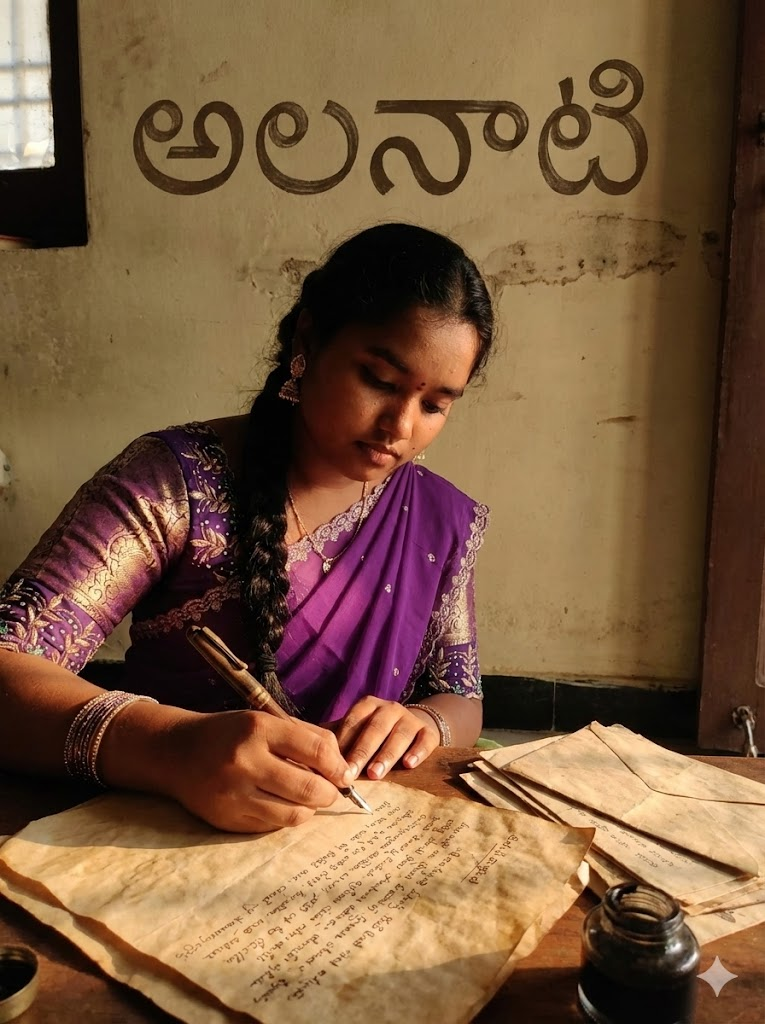
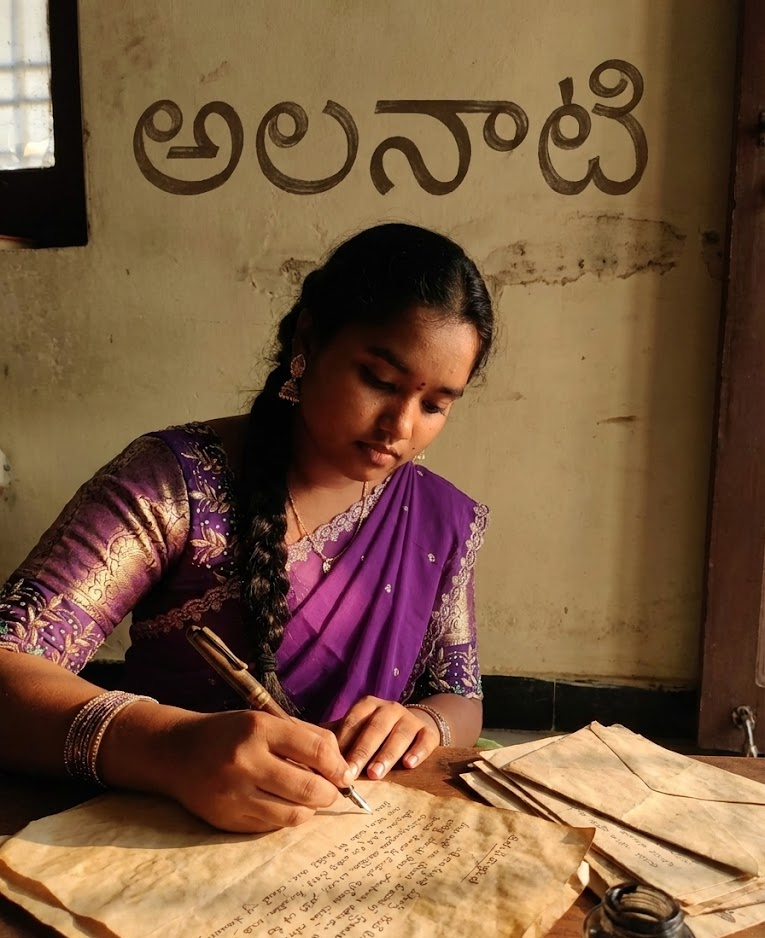
image chabged

diff --git a/src/pages/About.jsx b/src/pages/About.jsx
@@ -176,7 +176,7 @@ const AboutAlanati = () => {
           </p>
 
           <p className="text">
-            “అలాటి” అంటే… మాటల్లో చెప్పలేని భావాలను  
+            “అలనాటి” అంటే… మాటల్లో చెప్పలేని భావాలను  
             కాగితంపై పండించి ఎవరికో అందించే ఒక అందమైన ప్రయాణం.
           </p>
 
